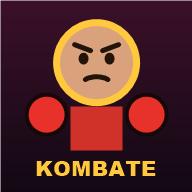
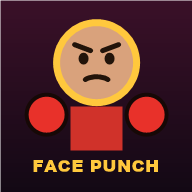
Face Punch (antes Kombate de Caras): nombre nuevo e ícono; pronósticos en el torneo: antes de cada pelea se vota quién gana y se lleva la tabla de los que más aciertan

Changed region(s): [[0.1562, 0.8125, 0.8438, 0.9375]]

diff --git a/kombate/game.js b/kombate/game.js
@@ -1,6 +1,6 @@
 'use strict';
 /* ==================================================================
-   KOMBATE DE CARAS — pelea 2D con la cara de tus amigos
+   FACE PUNCH (antes Face Punch) — pelea 2D con la cara de tus amigos
    Lienzo lógico de alto 540; el ancho se adapta a la pantalla (760–1280).
    Coordenadas del mundo: x de 0 a STAGE_W, y = altura sobre el piso.
    ================================================================== */
@@ -648,7 +648,7 @@ const STAGES = [
       for (const tx of [120, STAGE_W - 120]) { c.beginPath(); c.moveTo(ox + tx - 40, 60); c.lineTo(ox + tx + 40, 60); c.lineTo(ox + STAGE_W / 2 + 300 * Math.sign(STAGE_W / 2 - tx), GROUND); c.lineTo(ox + STAGE_W / 2 - 100 * Math.sign(STAGE_W / 2 - tx), GROUND); c.fill(); }
     },
     mid(c, R) {
-      const ads = [['KOMBATE', '#d52b1e', '#fff'], ['DE CARAS', '#ffd21f', '#111'], ['JLEOV GAMES', '#0038a8', '#fff'], ['PY 🇵🇾', '#fff', '#d52b1e'], ['¡PIÑA!', '#1d9e49', '#fff']];
+      const ads = [['FACE', '#d52b1e', '#fff'], ['PUNCH', '#ffd21f', '#111'], ['JLEOV GAMES', '#0038a8', '#fff'], ['PY 🇵🇾', '#fff', '#d52b1e'], ['¡PIÑA!', '#1d9e49', '#fff']];
       c.fillStyle = '#0a0d18'; c.fillRect(0, GROUND - 92, STAGE_W, 62);
       for (let i = 0, x = 0; x < STAGE_W; i++, x += 220) {
         const [t, bg, fg] = ads[i % ads.length]; c.fillStyle = bg; c.fillRect(x + 4, GROUND - 86, 212, 48);
@@ -2261,6 +2261,7 @@ function onSpecMsg(c, m) {
   if (!m || !m.t) return;
   if (m.t === 'in') { readNetInput(c._src, c._last, m); return; }
   if (m.t === 'hello') { tourHello(c, m.sel); return; }
+  if (m.t === 'vote') { castVote(c.peer, c._name, m.s, c._slot); return; }
   if (m.t === 'side') { c._side = m.s === 0 || m.s === 1 ? m.s : -1; audienceChanged(); }
   else if (m.t === 'cheer') {
     const now = performance.now(); if (now - (c._ct || 0) < 150 || !CHEERS.includes(m.e) || (m.s !== 0 && m.s !== 1)) return;
@@ -2839,8 +2840,8 @@ $('#oCode').onkeydown = e => { if (e.key === 'Enter') netJoin($('#oCode').value)
 $('#oClose').onclick = () => { netClose(); $('#scrOnline').classList.remove('on'); };
 const roomLink = () => location.origin + location.pathname + '?sala=' + NET.code;
 $('#oShare').onclick = () => {
-  const text = NET.room === 'bots' ? '🍿 ¡Vení a mirar la pelea de bots en Kombate de Caras y alentá a tu favorito! Código ' + NET.code : '¡Peleemos! Entrá a mi sala de Kombate de Caras con el código ' + NET.code;
-  const data = { title: 'Kombate de Caras', text, url: roomLink() };
+  const text = NET.room === 'bots' ? '🍿 ¡Vení a mirar la pelea de bots en Face Punch y alentá a tu favorito! Código ' + NET.code : '¡Peleemos! Entrá a mi sala de Face Punch con el código ' + NET.code;
+  const data = { title: 'Face Punch', text, url: roomLink() };
   if (navigator.share) navigator.share(data).catch(() => { }); else $('#oCopy').onclick();
 };
 $('#oCopy').onclick = () => { navigator.clipboard.writeText(roomLink()).then(() => toast('📋 Link copiado. Pasáselo a tu amigo.')).catch(() => toast(roomLink(), 6000)); };
@@ -2875,14 +2876,14 @@ const NEXT_NAMES = ['cuartos de final', 'la semifinal', 'la final', ''];
 let PHOTO_TARGET = null, TT = null; const TFACE = [];
 function defaultTour() {
   return {
-    name: 'Gran Torneo de Kombate', mode: 'solo', need: 1, lvl: 'normal', status: 'setup', R: null, round: 0, match: 0,
+    name: 'Gran Torneo Face Punch', mode: 'solo', need: 1, lvl: 'normal', status: 'setup', R: null, round: 0, match: 0,
     slots: CH_KEYS.map((k, i) => ({ name: CHARS[k].name, ch: k, face: null, ctl: i === 0 ? 'me' : 'bot' }))
   };
 }
 let TOUR = store.get('kdc_tour', null);
 if (!TOUR || !Array.isArray(TOUR.slots) || TOUR.slots.length !== 16) TOUR = defaultTour();
 TOUR.slots.forEach(s => { if (s.ctl === 'net') s.ctl = 'bot'; if (!CHARS[s.ch]) s.ch = 'toro'; });
-if (!TOUR.name) TOUR.name = 'Gran Torneo de Kombate';
+if (!TOUR.name || TOUR.name === 'Gran Torneo de Kombate') TOUR.name = 'Gran Torneo Face Punch';
 if (TOUR.mode === 'online' && TOUR.status !== 'setup') TOUR.status = 'setup'; // un torneo en línea no se retoma sin los amigos
 function saveTour() { if (!store.set('kdc_tour', TOUR)) toast('No hay espacio para guardar las caras del torneo en este aparato.'); }
 const curMatch = () => ({ a: TOUR.R[TOUR.round][TOUR.match * 2], b: TOUR.R[TOUR.round][TOUR.match * 2 + 1] });
@@ -2910,7 +2911,7 @@ function renderTour() {
   const T = TOUR;
   document.querySelectorAll('#tModes [data-tm]').forEach(b => b.classList.toggle('on', b.dataset.tm === T.mode));
   const roomOpen = roomHost() && NET.room === 'tour' && NET.peer && NET.peer.open, friends = [...NET.specs].filter(c => c._slot >= 0).length;
-  $("#tOpts").innerHTML = `<div class="secT">Nombre del torneo</div><input id="tName" class="inp" style="font-size:18px;letter-spacing:1px;text-transform:none;text-align:left;max-width:420px;padding:10px 12px" maxlength="30" value="${esc(T.name || "")}" placeholder="Gran Torneo de Kombate">
+  $("#tOpts").innerHTML = `<div class="secT">Nombre del torneo</div><input id="tName" class="inp" style="font-size:18px;letter-spacing:1px;text-transform:none;text-align:left;max-width:420px;padding:10px 12px" maxlength="30" value="${esc(T.name || "")}" placeholder="Gran Torneo Face Punch">
     <div class="secT">Peleas</div><div class="row">
       <button class="sm ${T.need === 1 ? 'on' : ''}" data-need="1">⚡ A 1 ronda</button><button class="sm ${T.need === 2 ? 'on' : ''}" data-need="2">🥊 Al mejor de 3</button>
       <span style="width:12px"></span><span style="font-weight:800;font-size:13px">Bots:</span>${LVLS.map(([k, t]) => `<button class="sm ${T.lvl === k ? "on" : ""}" data-tl="${k}">${t}</button>`).join("")}
@@ -2974,11 +2975,11 @@ function rosterData(slots) {
   return { app: 'kombate-de-caras', tipo: 'peleadores', v: 1, slots: slots.map(s => ({ name: s.name, ch: s.ch, face: s.face || null, yaw: s.yaw ?? yawOf(s.face) })) };
 }
 async function exportRoster() {
-  const txt = JSON.stringify(rosterData(TOUR.slots)), name = 'kombate-peleadores.json';
+  const txt = JSON.stringify(rosterData(TOUR.slots)), name = 'facepunch-peleadores.json';
   const file = new File([txt], name, { type: 'application/json' });
   // en el celular se comparte directo (WhatsApp, etc.); si no se puede, se descarga el archivo
   try {
-    if (navigator.canShare && navigator.canShare({ files: [file] })) { await navigator.share({ files: [file], title: 'Peleadores de Kombate de Caras', text: '🥊 Mis 16 peleadores de Kombate de Caras. Abrí el juego → 🏆 Torneo → 📥 Cargar peleadores.' }); return; }
+    if (navigator.canShare && navigator.canShare({ files: [file] })) { await navigator.share({ files: [file], title: 'Peleadores de Face Punch', text: '🥊 Mis 16 peleadores de Face Punch. Abrí el juego → 🏆 Torneo → 📥 Cargar peleadores.' }); return; }
   } catch (e) { if (e && e.name === 'AbortError') return; }
   const a = document.createElement('a'); a.href = URL.createObjectURL(file); a.download = name; document.body.appendChild(a); a.click();
   setTimeout(() => { URL.revokeObjectURL(a.href); a.remove(); }, 2000);
@@ -2987,7 +2988,7 @@ async function exportRoster() {
 // pone los peleadores recibidos en el torneo de este aparato (acepta el archivo o lo que mandó la sala)
 function loadRoster(data) {
   const list = data && Array.isArray(data.slots) ? data.slots : null;
-  if (!list || list.length !== 16) { toast('Ese archivo no es de peleadores de Kombate de Caras.'); return false; }
+  if (!list || list.length !== 16) { toast('Ese archivo no es de peleadores de Face Punch.'); return false; }
   if (TOUR.status !== 'setup' && TOUR.R && !confirm('Tenés un torneo a medias. ¿Lo reemplazo por estos peleadores?')) return false;
   const meIdx = TOUR.slots.findIndex(s => s.ctl === 'me');
   TOUR.slots = list.map((s, i) => {
@@ -3010,7 +3011,7 @@ $('#fileTour').onchange = e => {
 // primero se arman las llaves (sorteadas, y el anfitrión cambia de lugar a quien quiera); después se pelea
 function startTour() {
   const order = [...Array(16).keys()].sort(() => Math.random() - .5);
-  Object.assign(TOUR, { R: [order, [], [], [], []], round: 0, match: 0, status: 'arrange', pend: [] });
+  Object.assign(TOUR, { R: [order, [], [], [], []], round: 0, match: 0, status: 'arrange', pend: [], bets: null, score: {} });
   bkReset(); saveTour(); showBracket();
 }
 function startFights() { TOUR.status = 'bracket'; TOUR.round = 0; TOUR.match = 0; saveTour(); showBracket(); fx('sfx', 'power'); }
@@ -3063,11 +3064,13 @@ function renderBracket() {
     btns.innerHTML = host ? `<button class="big b4" id="bShuffle">🔀 Sortear de nuevo</button><button class="big" id="bStart">🥋 ¡Empezar el torneo!</button>` : '';
     if ($('#bShuffle')) $('#bShuffle').onclick = () => { TOUR.R[0].sort(() => Math.random() - .5); BK.sel = -1; saveTour(); fx('sfx', 'whoosh'); if (roomHost() && NET.room === 'tour') broadcastTour(); };
     if ($('#bStart')) $('#bStart').onclick = startFights;
+    if ($('#bBets')) $('#bBets').innerHTML = '';
     return;
   }
-  if (T.status !== 'bracket') { $('#bInfo').textContent = T.status === 'champ' ? '🏆 ¡El torneo terminó!' : ''; btns.innerHTML = `<button class="big b5" id="bChamp">🏆 Ver al campeón</button>`; $('#bChamp').onclick = showChamp; return; }
+  if (T.status !== 'bracket') { betBoard(T, host); $('#bInfo').textContent = T.status === 'champ' ? '🏆 ¡El torneo terminó!' : ''; btns.innerHTML = `<button class="big b5" id="bChamp">🏆 Ver al campeón</button>`; $('#bChamp').onclick = showChamp; return; }
   const a = T.R[T.round][T.match * 2], b = T.R[T.round][T.match * 2 + 1], A = slotView(a), B = slotView(b);
   $('#bInfo').textContent = `${ROUND_NAMES[T.round]}${T.round < 3 ? ` · pelea ${T.match + 1} de ${8 >> T.round}` : ''}: ${A.name} contra ${B.name}`;
+  renderBets(T, a, b, A, B, host);
   if (!host) { btns.innerHTML = `<span class="wait">⏳ El anfitrión maneja el torneo.</span>`; return; }
   const human = isHuman(a) || isHuman(b), meAlive = TOUR.slots.some((s, i) => s.ctl !== 'bot' && aliveIn(i));
   btns.innerHTML = human ? `<button class="big" id="bPlay">🥊 ¡A pelear!</button>`
@@ -3076,6 +3079,28 @@ function renderBracket() {
   if ($('#bWatch')) $('#bWatch').onclick = playTourMatch;
   if ($('#bSim')) $('#bSim').onclick = () => { simMatch(); showBracket(); };
   if ($('#bSimAll')) $('#bSimAll').onclick = () => { while (TOUR.status === 'bracket') { const { a, b } = curMatch(); if (isHuman(a) || isHuman(b)) break; simMatch(); } showBracket(); };
+}
+const betBoardHtml = list => list.length ? `<div class="secT">🎯 Los que más acertaron</div><ol class="betList">${list.map((s, i) => `<li>${['🥇', '🥈', '🥉'][i] || ''} <b>${esc(s.name)}</b> · ${s.ok} de ${s.n}</li>`).join('')}</ol>` : '';
+function betBoard(T, host) { if ($('#bBets')) $('#bBets').innerHTML = betBoardHtml(host ? scoreList() : (T.score || [])); }
+// el cuadro de pronósticos de la pelea que viene y la tabla de los que más acertaron
+function renderBets(T, a, b, A, B, host) {
+  const el = $('#bBets'); if (!el) return;
+  let bets, mine, mineSlot, closed;
+  if (host) { const X = betsNow(); bets = [0, 1].map(s => Object.values(X.votes).filter(v => v === s).length); mine = X.votes.host; closed = X.closed; mineSlot = TOUR.slots.findIndex(s => s.ctl === 'me'); }
+  else { const X = T.bets || {}; bets = X.counts || [0, 0]; mine = X.mine; closed = X.closed; mineSlot = T.you; }
+  const fighting = mineSlot >= 0 && (mineSlot === a || mineSlot === b);
+  const btn = (s, S, n) => `<button class="bet ${mine === s ? 'on' : ''}" data-bet="${s}" ${closed || fighting ? 'disabled' : ''}><i ${faceStyle(S.face)}>${S.face ? '' : '🙂'}</i><span><b>${esc(S.name)}</b><small>${n} voto${n === 1 ? '' : 's'}</small></span></button>`;
+  const list = host ? scoreList() : (T.score || []);
+  el.innerHTML = `<div class="secT">🎯 ¿Quién gana esta pelea?</div>
+    <div class="row">${btn(0, A, bets[0])}<span style="align-self:center;font-weight:900;color:var(--red)">VS</span>${btn(1, B, bets[1])}</div>
+    <div class="hint" style="text-align:left">${fighting ? '🥊 Es tu pelea: esta no la podés votar.' : closed ? '🔒 Ya empezó: la votación está cerrada.' : mine != null ? '✅ Votaste. Podés cambiar tu voto hasta que empiece la pelea.' : 'Votá antes de que empiece. Si acertás, sumás un punto.'}</div>
+    ${list.length ? `<div class="secT">🏅 Los que más aciertan</div><ol class="betList">${list.map((s, i) => `<li>${['🥇', '🥈', '🥉'][i] || ''} <b>${esc(s.name)}</b> · ${s.ok} de ${s.n}</li>`).join('')}</ol>` : ''}`;
+  el.querySelectorAll('[data-bet]').forEach(bt => bt.onclick = () => {
+    const s = +bt.dataset.bet;
+    if (host) castVote('host', (SEL[0].name || 'Anfitrión'), s, mineSlot);
+    else { netSend({ t: 'vote', s }); if (T.bets) { T.bets.mine = s; renderBracket(); } }
+    SFX.pop();
+  });
 }
 /* --- el tablero del gran torneo de artes marciales ---
    Los 16 abajo; las líneas suben ronda por ronda hasta la cima, donde queda el campeón.
@@ -3219,7 +3244,31 @@ function bkClick(e) {
 }
 // ¿ese lugar sigue en carrera?
 function aliveIn(i) { const r = TOUR.round; return TOUR.R[r].includes(i) && !(TOUR.R[r + 1] || []).some((w, m) => w != null && (TOUR.R[r][m * 2] === i || TOUR.R[r][m * 2 + 1] === i) && w !== i); }
+/* --- pronósticos: antes de cada pelea, los que miran votan quién gana; al final se ve quién acertó más ---
+   TOUR.bets = { key: 'ronda-pelea', closed, votes: { id: 0|1 }, names: { id: nombre } }; TOUR.score = { id: { name, ok, n } } */
+const betKey = () => TOUR.round + '-' + TOUR.match;
+function betsNow() { if (!TOUR.bets || TOUR.bets.key !== betKey()) TOUR.bets = { key: betKey(), closed: false, votes: {}, names: {} }; return TOUR.bets; }
+function castVote(id, name, side, slot) {
+  if (TOUR.status !== 'bracket' || (side !== 0 && side !== 1)) return;
+  const B = betsNow(), { a, b } = curMatch();
+  if (B.closed || (slot != null && slot >= 0 && (slot === a || slot === b))) return; // los que pelean no votan su pelea
+  B.votes[id] = side; B.names[id] = (name || 'Alguien').slice(0, 12);
+  saveTour();
+  if (roomHost() && NET.room === 'tour') broadcastTour();
+  if ($('#scrBracket').classList.contains('on')) renderBracket();
+}
+function scoreBets(winSide) {
+  const B = TOUR.bets; if (!B || B.key !== betKey()) return;
+  TOUR.score = TOUR.score || {};
+  for (const id in B.votes) {
+    const s = TOUR.score[id] || (TOUR.score[id] = { name: B.names[id], ok: 0, n: 0 });
+    s.name = B.names[id] || s.name; s.n++; if (B.votes[id] === winSide) s.ok++;
+  }
+  TOUR.bets = null;
+}
+const scoreList = () => Object.values(TOUR.score || {}).sort((x, y) => y.ok - x.ok || x.n - y.n).slice(0, 20);
 function recordWinner(slot) {
+  scoreBets(TOUR.R[TOUR.round][TOUR.match * 2] === slot ? 0 : 1);
   // para la animación del tablero: el que ganó sube desde su lugar hasta la ronda siguiente
   (TOUR.pend = TOUR.pend || []).push({ L: TOUR.round, i: TOUR.match * 2 + (TOUR.R[TOUR.round][TOUR.match * 2] === slot ? 0 : 1) });
   TOUR.R[TOUR.round + 1][TOUR.match] = slot;
@@ -3234,6 +3283,7 @@ function simMatch() {
 }
 function playTourMatch() {
   const { a, b } = curMatch(), A = TOUR.slots[a], B = TOUR.slots[b];
+  betsNow().closed = true; // empieza la pelea: se cierran los pronósticos
   const title = ROUND_NAMES[TOUR.round] + (TOUR.round < 3 ? ' · Pelea ' + (TOUR.match + 1) + ' de ' + (8 >> TOUR.round) : '');
   audio();
   startMatch({ mode: 'tour', sel: [A, B], stage: ARENA, need: TOUR.need, lvls: [TOUR.lvl, TOUR.lvl], title, tname: TOUR.name, tour: { a, b } });
@@ -3304,6 +3354,7 @@ function showChamp() {
     c.font = '900 20px system-ui,sans-serif'; c.lineWidth = 5; const ct = ('CAMPEÓN · ' + (T.name || 'Gran Torneo')).toUpperCase(); c.font = `900 ${Math.min(20, 20 * 560 / Math.max(560, c.measureText(ct).width))}px system-ui,sans-serif`; c.strokeText(ct, 320, 352); c.fillStyle = '#fff'; c.fillText(ct, 320, 352);
     champRAF = requestAnimationFrame(draw);
   };
+  $('#chBets').innerHTML = betBoardHtml(NET.role === 'spect' ? (T.score || []) : scoreList());
   draw(); fx('sfx', 'twinkle'); speak('¡' + s.name + ', campeón de ' + (T.name || 'el gran torneo') + '!');
 }
 $('#chTree').onclick = () => { showScreen('scrBracket'); renderBracket(); };
@@ -3314,8 +3365,14 @@ $('#chQuit').onclick = goMenu;
 function tourState(c) {
   return {
     t: 'tour', you: c._slot,
-    T: { name: TOUR.name, mode: TOUR.mode, need: TOUR.need, status: TOUR.status, R: TOUR.R, round: TOUR.round, match: TOUR.match, slots: TOUR.slots.map(s => ({ name: s.name, ch: s.ch, ctl: s.ctl, yaw: s.yaw ?? yawOf(s.face) })) }
+    T: { bets: tourBetsFor(c), score: scoreList(), name: TOUR.name, mode: TOUR.mode, need: TOUR.need, status: TOUR.status, R: TOUR.R, round: TOUR.round, match: TOUR.match, slots: TOUR.slots.map(s => ({ name: s.name, ch: s.ch, ctl: s.ctl, yaw: s.yaw ?? yawOf(s.face) })) }
   };
+}
+// lo que ve cada uno de la votación: cuántos votos tiene cada lado y a quién votó él
+function tourBetsFor(c) {
+  if (TOUR.status !== 'bracket') return null;
+  const B = betsNow();
+  return { closed: B.closed, counts: [0, 1].map(s => Object.values(B.votes).filter(v => v === s).length), mine: B.votes[c.peer] };
 }
 function sendFaces(c) {
   TOUR.slots.forEach((s, i) => { const k = s.face ? faceKey(s.face) : ''; if (c._fk[i] !== k) { c._fk[i] = k; try { c.send({ t: 'face', i, f: s.face || null }); } catch (e) { } } });
@@ -3328,6 +3385,7 @@ function tourJoined(c) {
 }
 function tourHello(c, sel) {
   if (NET.room !== 'tour' || !sel) return;
+  c._name = (sel.name || 'Amigo').slice(0, 12);
   if (TOUR.status === 'setup' && TOUR.mode === 'online') { // fuera de "en línea" los que entran solo miran
     if (c._slot < 0) { const i = TOUR.slots.findIndex(s => s.ctl === 'bot'); if (i >= 0) c._slot = i; }
     if (c._slot >= 0) Object.assign(TOUR.slots[c._slot], { name: (sel.name || 'Amigo').slice(0, 12), ch: CHARS[sel.ch] ? sel.ch : 'toro', face: sel.face || null, yaw: sel.yaw || 0, ctl: 'net' });

diff --git a/kombate/index.html b/kombate/index.html
@@ -3,13 +3,13 @@
 <head>
 <meta charset="utf-8">
 <meta name="viewport" content="width=device-width,initial-scale=1,viewport-fit=cover,user-scalable=no">
-<title>Kombate de Caras</title>
+<title>Face Punch</title>
 <meta name="description" content="Juego de pelea 2D donde los peleadores usan la cara de tus amigos. Sacá una foto y peleá en el celular o la PC.">
 <meta name="theme-color" content="#120814">
 <meta name="mobile-web-app-capable" content="yes">
 <meta name="apple-mobile-web-app-capable" content="yes">
 <meta name="apple-mobile-web-app-status-bar-style" content="black-translucent">
-<meta name="apple-mobile-web-app-title" content="Kombate">
+<meta name="apple-mobile-web-app-title" content="Face Punch">
 <link rel="manifest" href="manifest.json">
 <link rel="icon" href="icon-192.png">
 <link rel="apple-touch-icon" href="icon-192.png">
@@ -137,6 +137,13 @@ h1.logo small{display:block;color:#fff;font-size:.45em;letter-spacing:6px;text-s
 .bchamp{text-align:center;font-weight:900;color:var(--gold)}
 .bchamp i{width:64px;height:64px;margin:4px auto;border-width:3px;font-size:30px}
 #bMine{margin-bottom:8px}
+#bBets{margin-top:12px;max-width:640px}
+.bet{display:flex;align-items:center;gap:8px;border:2px solid #ffffff33;border-radius:14px;background:#ffffff12;color:#fff;padding:8px 14px 8px 8px;min-width:150px;text-align:left}
+.bet i{width:40px;height:40px;border-radius:50%;flex:none;background:#333 center/cover;border:2px solid #ffffff55;font-style:normal;display:flex;align-items:center;justify-content:center;font-size:20px}
+.bet b{display:block;font-size:15px}.bet small{opacity:.8}
+.bet.on{border-color:var(--gold);background:#ffc83d33;box-shadow:0 0 12px #ffc83d55}
+.bet:disabled{opacity:.55}
+.betList{margin:4px 0 0;padding-left:22px;font-size:14px;line-height:1.6;columns:2}
 #cheer{position:fixed;left:50%;bottom:max(8px,env(safe-area-inset-bottom));transform:translateX(-50%);z-index:4;display:none;gap:5px;align-items:center;background:#000000a0;border:1px solid #ffffff30;border-radius:30px;padding:5px 8px;max-width:calc(100vw - 16px)}
 #cheer.on{display:flex}
 #cheer button{border:0;background:#ffffff1a;color:#fff;border-radius:22px;cursor:pointer;touch-action:manipulation}
@@ -170,8 +177,8 @@ kbd{background:#ffffff22;border-radius:5px;padding:1px 6px;font-family:inherit;f
 <!-- MENÚ PRINCIPAL -->
 <section class="scr on" id="scrMenu">
   <div style="max-width:560px;margin:4vh auto 0">
-    <h1 class="logo"><small>Kombate de</small>Caras</h1>
-    <div class="tag">Sacale una foto a tu amigo… ¡y dale una paliza! 🥊</div>
+    <h1 class="logo"><small>🥊 Face</small>Punch</h1>
+    <div class="tag">“Face Punch” = piña en la cara. Sacale una foto a tu amigo… ¡y dale una paliza! 🥊</div>
     <div class="menu">
       <button class="big" id="mCpu">🤖 1 jugador · contra la máquina</button>
       <button class="big b3" id="mOnline">🌐 En línea</button>
@@ -183,7 +190,7 @@ kbd{background:#ffffff22;border-radius:5px;padding:1px 6px;font-family:inherit;f
         <button class="sm" id="mInstall" style="display:none">📲 Instalar</button>
       </div>
     </div>
-    <div class="foot">Kombate de Caras · <a href="../">Juegos de Mesa Digital PY</a> · jleovgames</div>
+    <div class="foot">Face Punch · <a href="../">Juegos de Mesa Digital PY</a> · jleovgames</div>
   </div>
 </section>
 
@@ -223,7 +230,7 @@ kbd{background:#ffffff22;border-radius:5px;padding:1px 6px;font-family:inherit;f
 
 <!-- TORNEO: ARMADO -->
 <section class="scr" id="scrTour">
-  <div class="selTop"><button class="sm" id="tBack">← Volver</button><h2>🏆 Gran Torneo de Kombate</h2></div>
+  <div class="selTop"><button class="sm" id="tBack">← Volver</button><h2>🏆 Torneo Face Punch</h2></div>
   <div class="row" id="tModes">
     <button class="sm" data-tm="solo">🙋 Solo: vos y 15 bots</button>
     <button class="sm" data-tm="bots">🍿 Solo bots</button>
@@ -241,12 +248,14 @@ kbd{background:#ffffff22;border-radius:5px;padding:1px 6px;font-family:inherit;f
   <div id="bMine"></div>
   <div class="bracket" id="bTree"></div>
   <div class="goBar"><div class="wait" id="bInfo"></div><div class="row" id="bBtns"></div></div>
+  <div id="bBets"></div>
 </section>
 
 <!-- TORNEO: CAMPEÓN -->
 <section class="scr modal" id="scrChamp">
   <div class="box" style="text-align:center;max-width:600px">
     <canvas id="chCv" width="640" height="420" style="width:100%;height:auto;display:block"></canvas>
+    <div id="chBets" style="text-align:left"></div>
     <div class="row" style="justify-content:center;margin-top:8px"><button class="big b2" id="chTree">Ver las llaves</button><button class="big b3" id="chNew">🏆 Otro torneo</button><button class="big" id="chQuit">Salir</button></div>
   </div>
 </section>

diff --git a/index.html b/index.html
@@ -83,9 +83,9 @@ a.game:hover,a.game:focus-visible{transform:translateY(-4px)}
     </a>
     <a class="game" href="kombate/">
       <div class="cover kdc"><img src="kombate/icon-192.png" alt=""></div>
-      <div class="body"><h2>🥊 Kombate de Caras</h2>
+      <div class="body"><h2>🥊 Face Punch</h2>
         <p>Pelea 2D con la cara de tus amigos: sacales una foto y 16 peleadores, torneo de 16, contra la máquina, en línea o mirá pelear a los bots.</p>
-        <span class="btn kdcbtn">Jugar al Kombate</span></div>
+        <span class="btn kdcbtn">Jugar a Face Punch</span></div>
     </a>
   </div>
   <div class="foot">Juegos de Mesa Digital PY · un proyecto de <b>jleovgames</b><br>

diff --git a/kombate/sw.js b/kombate/sw.js
@@ -1,6 +1,6 @@
 // Service worker de Kombate de Caras: permite instalarlo como app y abrirlo sin conexión.
 // Solo borra sus propias cachés (prefijo "kombate-").
-const CACHE = 'kombate-v15';
+const CACHE = 'kombate-v16';
 const FILES = ['./', './index.html', './game.js', './peerjs.min.js', './manifest.json', './icon-192.png', './icon-512.png'];
 
 self.addEventListener('install', e => {
